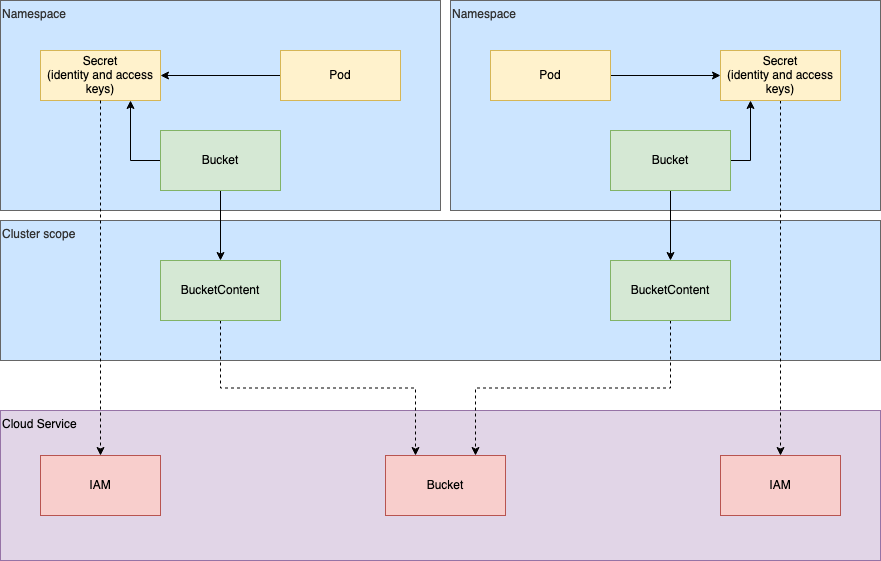
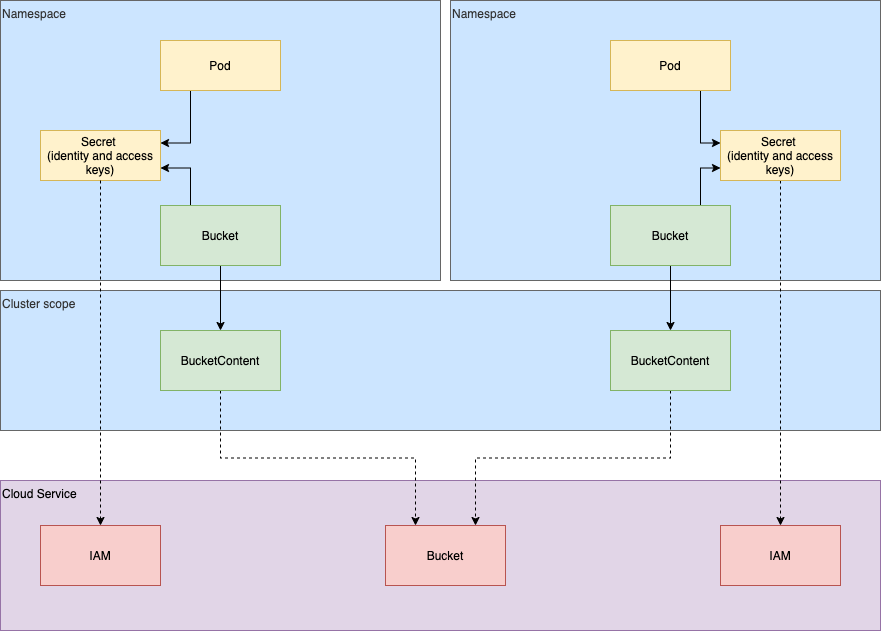
tweak summary/motivation, fix broken anchors, reincluded CMs in diagrams, added manually managed section

diff --git a/keps/sig-storage/20191125-bucket-provisioning.md b/keps/sig-storage/20191125-bucket-provisioning.md
@@ -35,6 +35,9 @@ status: provisional
   - [API Relationships](#api-relationships)
     - [Greenfield: Dynamic Bucket Creation](#greenfield-dynamic-bucket-creation)
     - [Brownfield: Dynamic Bucket Access](#brownfield-dynamic-bucket-access)
+    - [Brownfield: Driverless Bucket Access](#brownfield-driverless-bucket-access)
+    - [Manually Managed Buckets](#manually-managed-buckets)
+    - [Provisioner Secrets](#provisioner-secrets)
   - [Custom Resource Definitions](#custom-resource-definitions)
       - [Bucket](#bucket)
       - [BucketContent](#bucketcontent)
@@ -43,15 +46,17 @@ status: provisional
 
 # Summary
 
-This proposal introduces the Container Object Storage Interface (COSI), whose purpose is to provide a  standardized representation of object storage instances in Kubernetes with support for the most common object store interfaces.  Given a common interface, cluster workloads can be made COSI-aware, and able to ingest buckets via the Kubernetes control layer.  While absolute portability cannot be guaranteed because of incompatibilities between providers, workloads reliant on a given protocol (e.g. one of S3, GCS, Azure Blob) may be defined in a single manifest and deployed wherever that protocol is supported.
-
-The COSI API will also provide a path towards a community maintained COSI controller, which will be capable of bucket lifecycle operations.  It is anticipated that the controller provide an API such that pluggable drivers may be written to implement operations specific to the object store provider.
-
-This proposal does _not_ include a standardized *protocol* or abstraction of storage vendor APIs.
+This proposal introduces the Container Object Storage Interface (COSI), whose purpose is to provide a  standardized representation of object storage instances in Kubernetes with support for the most common object store interfaces.  Goals and non-goals set the scope for the proposal by defining higher level objectives of the design.  The vocabulary section defineds common words used to describe aspects of the COSI system.  Following the definitions, the documents states admin and user stories to illustrate how COSI may fulfill cluster user requirements.  API relationships provides diagrams to illustrate the interconnnections between COSI APIs, user’s workloads, and object store service instances.  Lastly, the documents states the proposed API specs for the Bucket, BucketContent, and BucketClass objects.
 
 ## Motivation
 
 File and block are first class citizens within the Kubernetes ecosystem.  Object, though very different under the hood, is a popular means of storing data, especially against very large data sources.   As such, we feel it is in the interest of the community to elevate buckets to a community supported feature.  In doing so, we can provide Kubernetes cluster users and administrators a normalized and familiar means of managing object storage.
+
+Given a common interface, cluster workloads can be made COSI-aware, and able to ingest buckets via the Kubernetes control layer.  While absolute portability cannot be guaranteed because of incompatibilities between providers, workloads reliant on a given protocol (e.g. one of S3, GCS, Azure Blob) may be defined in a single manifest and deployed wherever that protocol is supported.
+
+The COSI API will also provide a path towards a community maintained COSI controller, which will be capable of bucket lifecycle operations.  It is anticipated that the controller provide an API such that pluggable drivers may be written to implement operations specific to the object store provider.
+
+This proposal does _not_ include a standardized *protocol* or abstraction of storage vendor APIs
 
 ## Goals
 
@@ -69,12 +74,12 @@ File and block are first class citizens within the Kubernetes ecosystem.  Object
 
 ##  Vocabulary
 
-+  _Brownfield Bucket_ - externally created and represented by a `BucketClass` and managed by a provisioner.
++  _Brownfield Bucket_ - externally created and represented by a [BucketClass](#bucketclass) and managed by a provisioner.
 + _Bucket_ - A user-namespaced custom resource representing an object store bucket.
 +  _BucketClass_ - A cluster-scoped custom resource containing fields defining the provisioner and an immutable parameter set.
    + _In Greenfield_: an abstraction of new bucket provisioning.
-   + _In Brownfield_: an abstration of an existing objet store bucket.
-+ _BucketContent_ - A cluster-scoped custom resource bound to a `Bucket` and containing relevant metadata.
+   + _In Brownfield_: an abstration of an single existing object store bucket.
++ _BucketContent_ - A cluster-scoped custom resource bound to a [Bucket](#bucket) and containing relevant metadata.
 + _Greenfield Bucket_ - a new bucket created and managed by the COSI system.
 +  _Object_ - An atomic, immutable unit of data stored in buckets.
 + _Driverless_ - a bucket manually defined by a user or admin with no installed provisioner.
@@ -100,14 +105,14 @@ The diagram below indicates the relationships, by reference, between the propose
 
 Secrets are used to store the cluster user’s object store authn/authz information, to be passed to automation so that operations can be performed on the user’s behalf.
 
-- Green objects represent COSI APIs.
-- Yellow objects represent user defined Kubernetes primitives
-- Red objects represent object store service instances
-- Grey objects represent possible connectors between the Bucket API and workloads.  The exact relation will be defined during design of the COSI automation.
+- **Green** objects represent COSI APIs.
+- **Yellow** objects represent user defined Kubernetes primitives
+- **Red** objects represent platform service instances (i.e. storage and users)
+- **Grey** objects represent *possible* connectors between the Bucket API and workloads.
 
 ### Greenfield: Dynamic Bucket Creation
 
-In an automated system where bucket lifecycles are managed by a COSI controller, a user will define a [Bucket](#bucket), containing a reference a [Bucket Class](#BucketClass).  Bucket Classes are admin-created objects representing a preset configuration for bucket creation.  A [Bucket Content](#BucketContent) object is generated and encapsulates all configuration information from the BucketClass and Bucket.  The BucketContent will store all necessary information about the provisioned storage instance, including connection data.
+In an automated system where bucket lifecycles are managed by a COSI controller, a user will define a [Bucket](#bucket), containing a reference a [Bucket Class](#bucketclass).  Bucket Classes are admin-created objects representing a preset configuration for bucket creation.  A [Bucket Content](#bucketcontent) object is generated and encapsulates all configuration information from the BucketClass and Bucket.  The BucketContent will store all necessary information about the provisioned storage instance, including connection data.
 
 
 
@@ -115,7 +120,9 @@ In an automated system where bucket lifecycles are managed by a COSI controller,
 
 ### Brownfield: Dynamic Bucket Access
 
-The expected workflow for interacting with a pre-existing storage instance is similar to Greenfield. The key distinction in this scenario is that a Bucket Class will reference a single, pre-existing bucket directly (indicated by the bold dashed line).  Buckets instantiated by users with reference to this class will be given the connection information for this pre-existing storage instance.  As part of this operation, the identity specified in the Bucket’s Secret should be granted permission to access the storage instance.  This operation should be configurable through the BucketClass parameters.
+The expected workflow for interacting with a pre-existing storage instance is similar to [Greenfield](#). The key distinction in this scenario is that a Bucket Class will reference a single, pre-existing bucket directly (indicated by the bold dashed line).  The key values for specifying storage instances should be made in the BucketClass’s parameters.  
+
+BucketContent objects will be created for Buckets, with the connection information for the storage instance populated from the BucketClass’s .  As part of this operation, the identity specified in the Bucket’s Secret should be granted permission to access the storage instance.  This operation should be configurable through the BucketClass parameters.
 
 
 
@@ -123,13 +130,13 @@ The expected workflow for interacting with a pre-existing storage instance is si
 
 
 
-#### Brownfield: Driverless Bucket Access
+### Brownfield: Driverless Bucket Access
 
-Clusters with COSI automation deployed but without a driver to manage backend bucket operations may still enable psuedo-dynamic Bucket access.  Similar to the [Brownfield: Dynamic Bucket Access](brownfield:-dynamic-bucket-access), the BucketClass will specify a single pre-existing bucket.  A BucketContent object will be generated from the BucketClass’s 
+Clusters with COSI automation deployed but without a provisioner to manage backend bucket operations may still support pseudo-dynamic Bucket access.  Similar to the [Brownfield: Dynamic Bucket Access](#greenfield-dynamic-bucket-creation), the BucketClass will specify a single pre-existing bucket.  
 
 ### Manually Managed Buckets
 
-
+Clusters with zero automation around the COSI API may still benefit from it when deploying COSI aware workload controllers (e.g. a controller managing data analytics jobs).   This case is releveant as it’s likely to be the first step towards adoption for some users.  In this case, admins would define BucketContents themselves and users would create Buckets with a prefilled `bucketContentRef` specifying the BucketContent.  After that, a COSI aware workload controller would be ready to inject connection and credential data from the BucketContent into a workload.
 
 ![](/Users/jcope/Workspace/go/src/github.com/yard-turkey/enhancements/keps/sig-storage/bucket-static-api-relation.png)
 
@@ -137,16 +144,16 @@ Clusters with COSI automation deployed but without a driver to manage backend bu
 
 ### Provisioner Secrets
 
-Per [Non-Goals](non-goals), it is not within the scope of COSI to abstract IAM operations.  Instead, provisioner credentials should be provided to automation by admins or users.  
+Per [Non-Goals](#non-goals), it is not within the scope of COSI to abstract IAM operations.  Instead, provisioner and user credentials should be provided to automation by admins or users.  
 
-The automation design should incorporate a model similar to that of CSI by defining BucketClass.Parameter key values to represent Secret name and namespace.
+BucketClass.Parameter key values are used to specify Secret name and namespace.  These may be considered of different degrees of granularity.
 
 - **Per Provisioner:** the Secret is used for all provisioning operations.  These Secrets should be injected directly in provisioner containers via [common Kubernetes patterns](https://kubernetes.io/docs/tasks/inject-data-application/distribute-credentials-secure/).
-- **Per Operation:** Secret’s data is passed to provisioners per operation or Bucket.  These Secrets should be defined as BucketClass parameters.  The keys of these values should be clearly defined during automation design.  
+- **Per Operation/Bucket:** Secret’s data is passed to provisioners per operation or Bucket.  These Secrets should be defined as BucketClass parameters.  The keys should be clearly defined during automation design.
 
-This design should support both plain string values as well as “templates.”  Plain string values will allow admins to specify a particular Secret by name and namespace.  The key values should provide a means of defining *provisioner* credentials as well as *user* credentials.  User credentials may be required in cases where a user is being granted access to an existing bucket.
+This model should support both plain string values as well as “templates.”  Plain string values will allow admins to specify a particular Secret by name and namespace.  The key values should provide a means of defining *provisioner* credentials as well as *user* credentials.  User credentials may be required in cases where a user is being granted access to an existing bucket or when a user has permissions to create buckets themselves.
 
-As an example, the following key’s represent a minimun of what COSI automation should define.
+As an example, the following key’s represent a minimun of what COSI automation should define.  `provisioner-secret*` keys specify Secret to be used for bucket operations.  `user-secret-*` keys specify Secrets containing user identity information.
 
 ```yaml
 cosi.io/provisioner-secret-name:
@@ -155,12 +162,14 @@ cosi.io/user-secret-name:
 cosi.io/user-secret-namespace:
 ```
 
-COSI automation should support templating of at least Secret names, namespaces. For example:
+COSI automation should support templating of Secret names and namespaces. For example:
 
 ```yaml
-cosi.io/provisioner-secret-name: "${bucket.name}"
-cosi.io/provisioner-secret-namespace: "${bucket.namespace}"
+cosi.io/user-secret-name: "${bucket.name}"
+cosi.io/user-secret-namespace: "${bucket.namespace}-region-west"
 ```
+
+> Note: Annotation key templates are not mentioned as of yet.  However, need for them may arise during automation design.
 
 ## Custom Resource Definitions
 
@@ -183,18 +192,18 @@ spec:
   protocol: [3]
   bucketPrefix: [4]
   bucketClassName: [5]
-  userSecretName: [6]
+  accessSecretName: [6]
 status:
   bucketContentName: [7]
   phase: [8]
   conditions: 
 ```
-1. `labels`: COSI controller adds the label to its managed resources to easy CLI GET ops.  Value is the driver name returned by GetDriverInfo() rpc. Characters that do not adhere to [Kubernetes label conventions](https://kubernetes.io/docs/concepts/overview/working-with-objects/labels/#syntax-and-character-set) will be converted to ‘-’.
+1. `labels`: COSI controller adds the label to its managed resources to easy CLI GET ops.  Key’s value is the driver name returned by GetDriverInfo() rpc. Characters that do not adhere to [Kubernetes label conventions](https://kubernetes.io/docs/concepts/overview/working-with-objects/labels/#syntax-and-character-set) will be converted to ‘-’.
 1. `finalizers`: COSI controller adds the finalizer to defer `Bucket` deletion until backend deletion ops succeed.
 1. `protocol`: specifies the desired protocol.  One of {“s3”, “gcs”, or “azureBlob”}.
 1. `bucketPrefix`: (Optional) prefix prepended to a randomly generated bucket name, eg. "YosemitePhotos-". If empty no prefix is appended.
 1. `bucketClassName`: Name of the target `BucketClass`.
-1. `userSecretName`: Secret containing credentials to be used by a workload for accessing the bucket.
+1. `userSecretName`: (optional) Secret in the Bucket’s namespace storing credentials to be used by a workload for bucket access.
 1. `bucketContentName`: Name of a bound `BucketContent`.
 1. `phase`: 
    - *Pending*: The controller has detected the new `Bucket` and begun provisioning operations
@@ -229,16 +238,12 @@ spec:
   protocol: [10]
     type: ""
     azureBlob: [11]
-      storageAccountName:
-      accountKey:
       containerName:
     s3: [12]
       endpoint:
-      accessKeyId:
       bucketName:
       region:
       signatureVersion:
-      userName:
     gcs: [13]
       bucketName:
       privateKeyName:
@@ -294,14 +299,15 @@ isDefaultBucketClass: [2]
 supportedProtocols: {"azureblob", "gcs", "s3", ... } [3]
 accessMode: {"ro", "wo", "rw"} [4]
 private: boolean [5]
-releasePolicy: {"Delete", "Retain"} [5]
-parameters: [6]
+releasePolicy: {"Delete", "Retain"} [6]
+parameters: [7]
 ```
 
 1. `provisioner`: The name of the driver. If supplied the driver container and sidecar container are expected to be deployed. If omitted the `secretRef` is required for static provisioning.
 1. `isDefaultBucketClass`: boolean. When true, signals that the COSI controller should attempt to match `Bucket`’s without a defined `BucketClass` to this class, accounting for the `Bucket`’s requested protocol.  Multiple default classes for the same protocol will produce undefined behaviour.
 1. `supportedProtocols`: protocols the associated object store supports.  Applied when matching Bucket to BucketClasses.
-1. `accessMode`: (Optional) Declares the level of access given to credentials provisioned through this class.     If empty, defaults to `rw`.
+1. `accessMode`: (Optional) ACL setting specifying the default accessibility of .
+1. `private`: ACL setting specifying if the a generated storage instance should be publicly accessible.  Common setting among protocols.
 1. `releasePolicy`: Prescribes outcome of a Delete events. **Note:** In Brownfield and Static cases, *Retain* is mandated. 
     - `Delete`:  the bucket and its contents are destroyed
     - `Retain`:  the bucket and its data are preserved with only abstracting Kubernetes being destroyed
